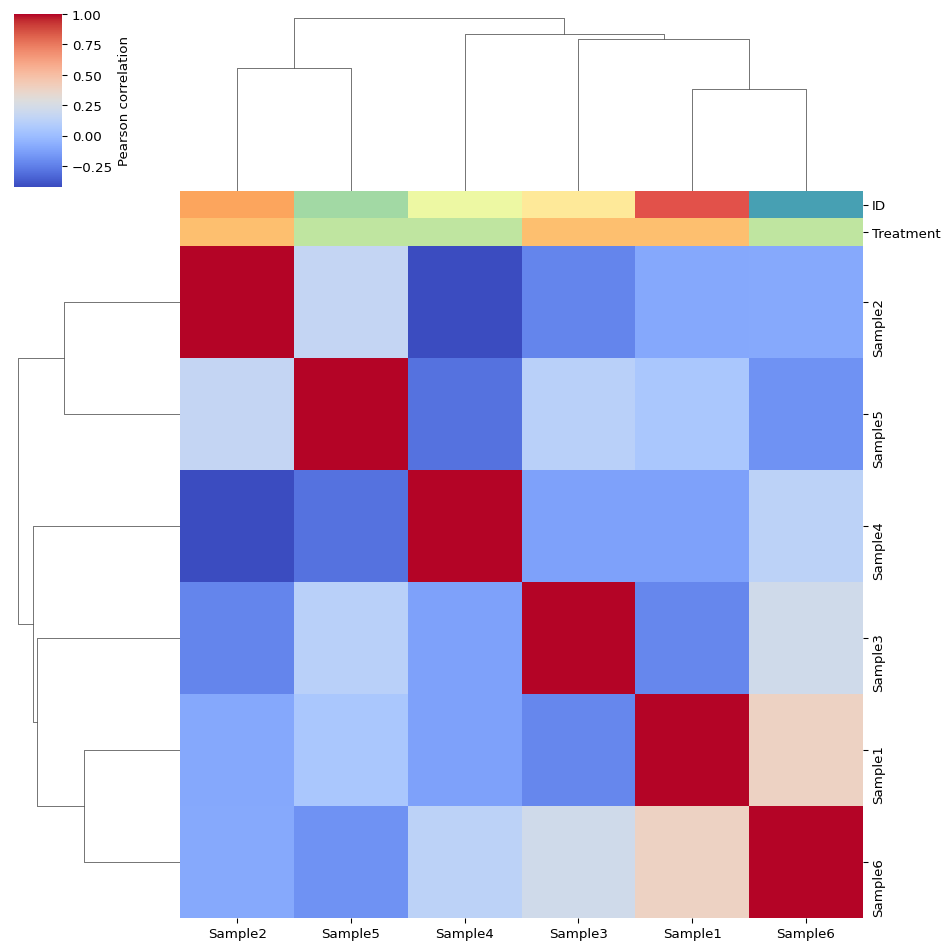
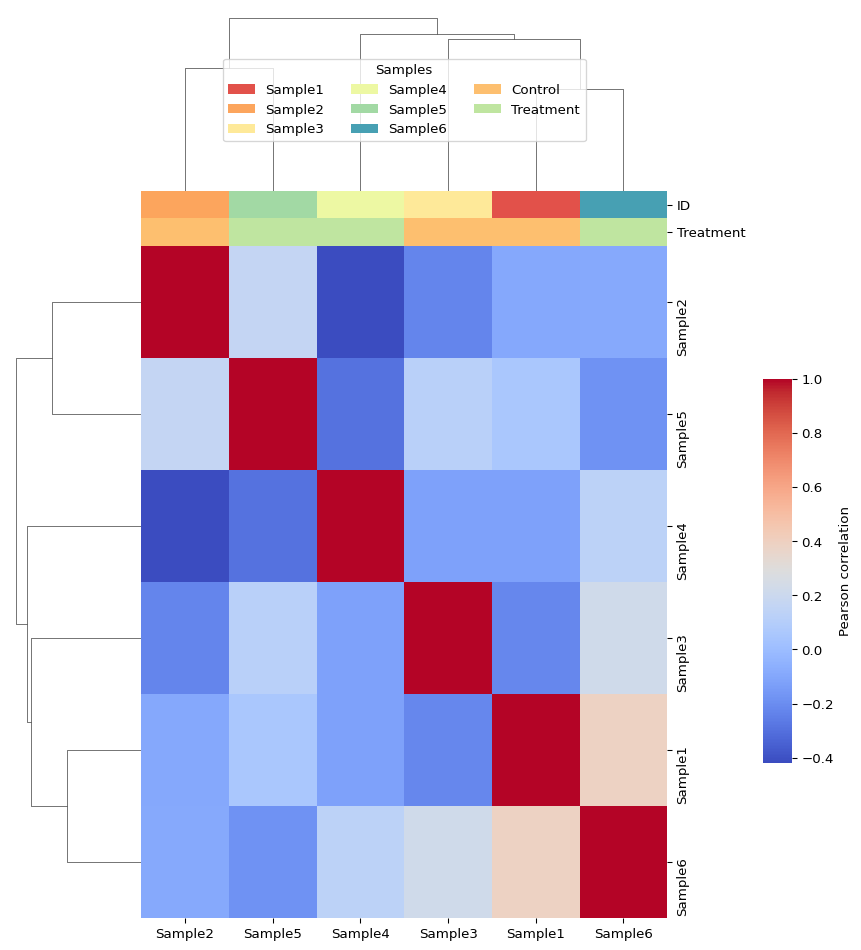
Attempt heatmap annotation legends

diff --git a/pydata/pydata.py b/pydata/pydata.py
@@ -3,6 +3,7 @@ from pydata.pca import pca
 import pandas as pd
 import numpy as np 
 import matplotlib.pyplot as plt
+from matplotlib.pyplot import gcf
 import seaborn as sns
 from sklearn.decomposition import PCA, SparsePCA
 from sklearn.preprocessing import StandardScaler
@@ -84,7 +85,13 @@ class pydata(ldata):
                 "Treatment": np.repeat(grps, [3, 3], axis = 0)
             }
         )
-        annot = pd.DataFrame({"ID": ["Feature" + str(i) for i in range(1, 21)]})
+        grps = np.array(["Group1", "Group2"])
+        annot = pd.DataFrame(
+            {
+                "ID": ["Feature" + str(i) for i in range(1, 21)], 
+                "Group": np.repeat(grps, [10, 10], axis = 0)
+            }
+        )
         return pydata(data, desc, annot)
 
     def _get_pcs(self):
@@ -232,7 +239,7 @@ class pydata(ldata):
                 self.description, 
                 annotate_samples_by
             )
-            annotate_samples_by.index = self.description["ID"]
+            annotate_samples_by["colour_df"].index = self.description["ID"]
 
         self._heatmap(
             dat, 
@@ -241,7 +248,6 @@ class pydata(ldata):
             cbar_kws = {"label": cor_method.capitalize() + " correlation"},
             **kwargs
         )
-
 
     def _feature_heatmap(
             self, 
@@ -255,14 +261,14 @@ class pydata(ldata):
                 self.description, 
                 annotate_samples_by
             )
-            annotate_samples_by.index = self.description["ID"]
+            annotate_samples_by["colour_df"].index = self.description["ID"]
 
         if annotate_features_by is not None:
             annotate_features_by = self.colour_by_df(
                 self.annotation, 
                 annotate_features_by
             )
-            annotate_features_by.index = self.annotation["ID"]
+            annotate_features_by["colour_df"].index = self.annotation["ID"]
 
         self._heatmap(
             self.data, 
@@ -276,12 +282,13 @@ class pydata(ldata):
     @staticmethod
     def colour_by_df(x, colour_by):
         colours = []
+        lut = []
         for i in colour_by:
             col = sns.color_palette("Spectral", n_colors = len(x[i].unique()))
-            lut = dict(zip(x[i].unique(), col))
-            colours += [x[i].map(lut)]
+            lut += [dict(zip(x[i].unique(), col))]
+            colours += [x[i].map(dict(zip(x[i].unique(), col)))]
         colours = pd.concat(colours, axis = 1)
-        return colours
+        return {"colour_df": colours, "colour_dict": lut}
 
     def _heatmap(
             self, 
@@ -291,23 +298,66 @@ class pydata(ldata):
             **kwargs
         ):
         if annotate_samples_by is not None:
-            assert self.data.columns.tolist() == annotate_samples_by.index.tolist(), \
+            assert self.data.columns.tolist() == annotate_samples_by["colour_df"].index.tolist(), \
                 "annotate_samples_by index must be same as data columns"
+        else:
+            annotate_samples_by = {"colour_df": None}
+
         if annotate_features_by is not None:
-            assert self.data.index.tolist() == annotate_features_by.index.tolist(), \
+            assert self.data.index.tolist() == annotate_features_by["colour_df"].index.tolist(), \
                 "annotate_features_by index must be same as data columns"
-        sns.clustermap(
+        else:
+            annotate_features_by = {"colour_df": None}
+        
+        plot = sns.clustermap(
             x, 
-            col_colors = annotate_samples_by, 
-            row_colors = annotate_features_by,
+            col_colors = annotate_samples_by["colour_df"], 
+            row_colors = annotate_features_by["colour_df"],
+            dendrogram_ratio = 0.2,
             **kwargs
         )
 
-    def _density_plot(
-            self, 
-            samples = None, 
-            **kwargs
-        ):
+        # Add legends
+        if annotate_samples_by["colour_df"] is not None:
+            for i in range(0, len(annotate_samples_by["colour_dict"])):
+                lut = annotate_samples_by["colour_dict"][i]
+                for key in lut:
+                    plot.ax_col_dendrogram.bar(
+                        0, 
+                        0, 
+                        color = lut[key], 
+                        label = key, 
+                        linewidth = 0
+                    )
+                plot.ax_col_dendrogram.legend(
+                    title = "Samples",
+                    loc = "center", 
+                    ncol = 3
+                )
+
+        if annotate_features_by["colour_df"] is not None:
+            for i in range(0, len(annotate_features_by["colour_dict"])):
+                lut = annotate_features_by["colour_dict"][i]
+                for key in lut:
+                    plot.ax_row_dendrogram.bar(
+                        0, 
+                        0, 
+                        color = lut[key], 
+                        label = key, 
+                        linewidth = 0
+                    )
+                plot.ax_row_dendrogram.legend(
+                    title = "Featurs",
+                    loc = "center left", 
+                    ncol = 1
+                )
+
+        plot.fig.subplots_adjust(right = 0.7)
+        plot.ax_cbar.set_position((0.8, .2, .03, .4))
+
+        return plot
+
+    def _density_plot(self, samples = None, **kwargs):
         if samples is None:
             samples = self.colnames
         sns.kdeplot(data = self.data[samples], **kwargs)

diff --git a/README.md b/README.md
@@ -29,9 +29,9 @@ print(x.annotation.head(2))
             ID Treatment
     0  Sample1   Control
     1  Sample2   Control
-             ID
-    0  Feature1
-    1  Feature2
+             ID   Group
+    0  Feature1  Group1
+    1  Feature2  Group1
 
 ## Linear dimensionality reduction using principal component analysis (PCA).
 
@@ -76,7 +76,8 @@ plt.show()
 
 x.plot(
     type = "feature_heatmap", 
-    annotate_samples_by = ["ID", "Treatment"]
+    annotate_samples_by = ["ID", "Treatment"], 
+    annotate_features_by = ["Group"]
 )
 plt.show()
 
